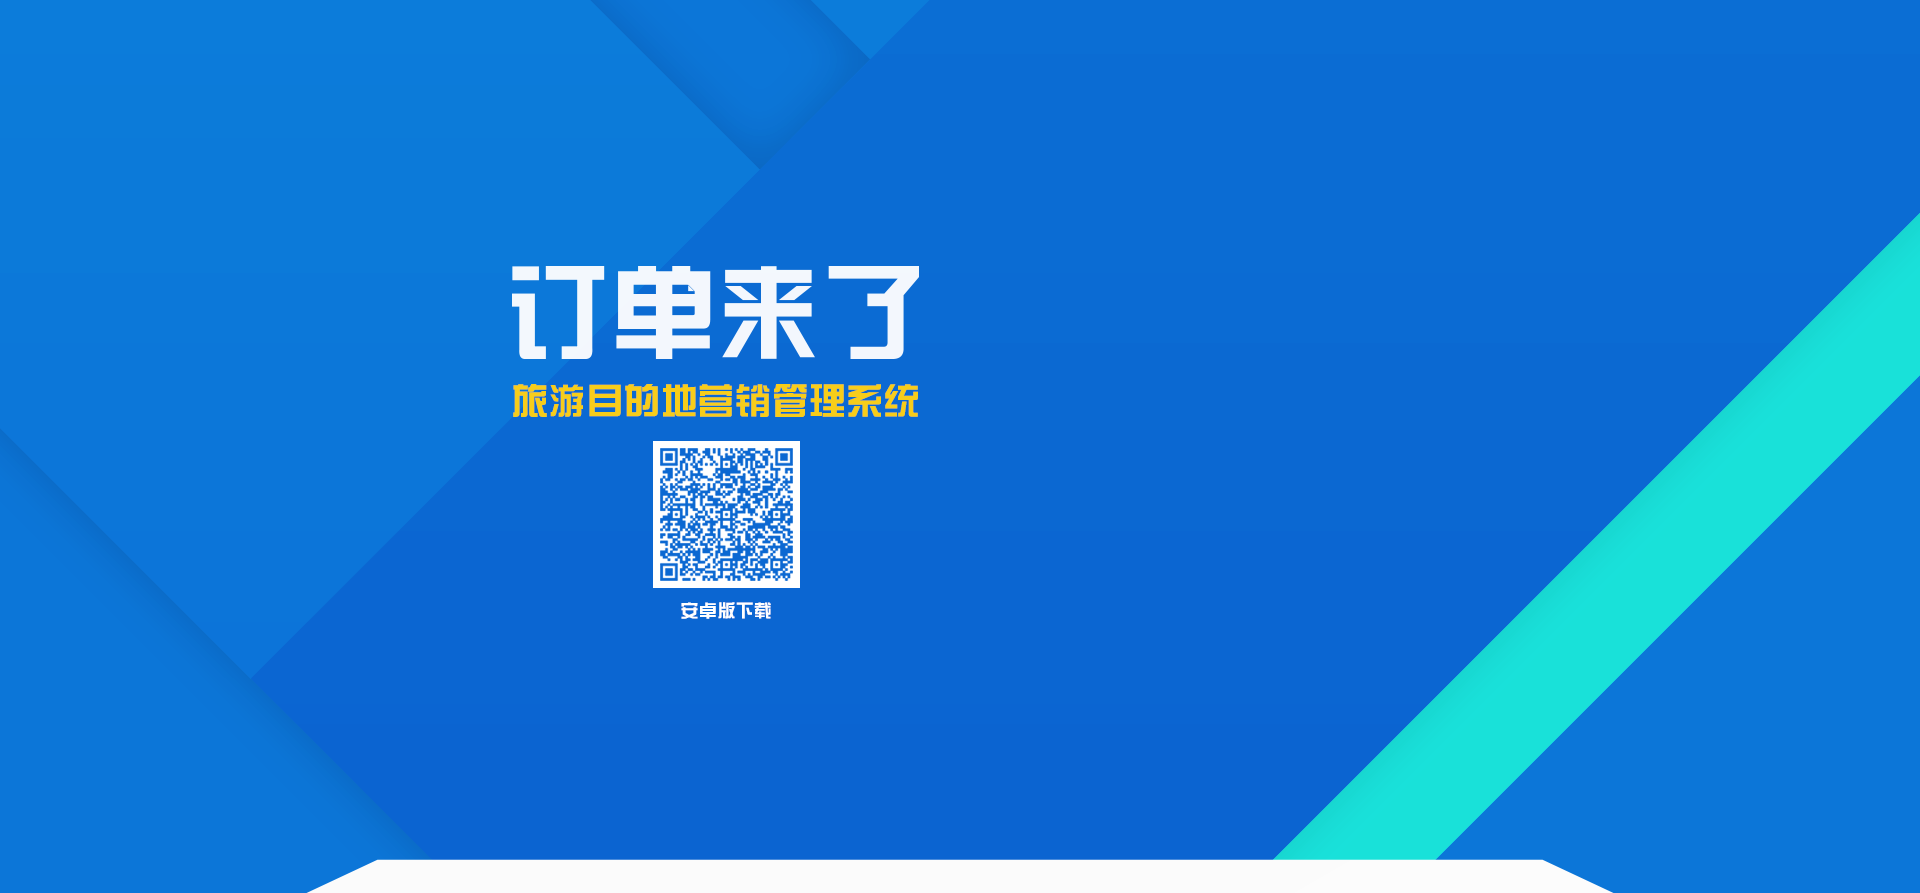
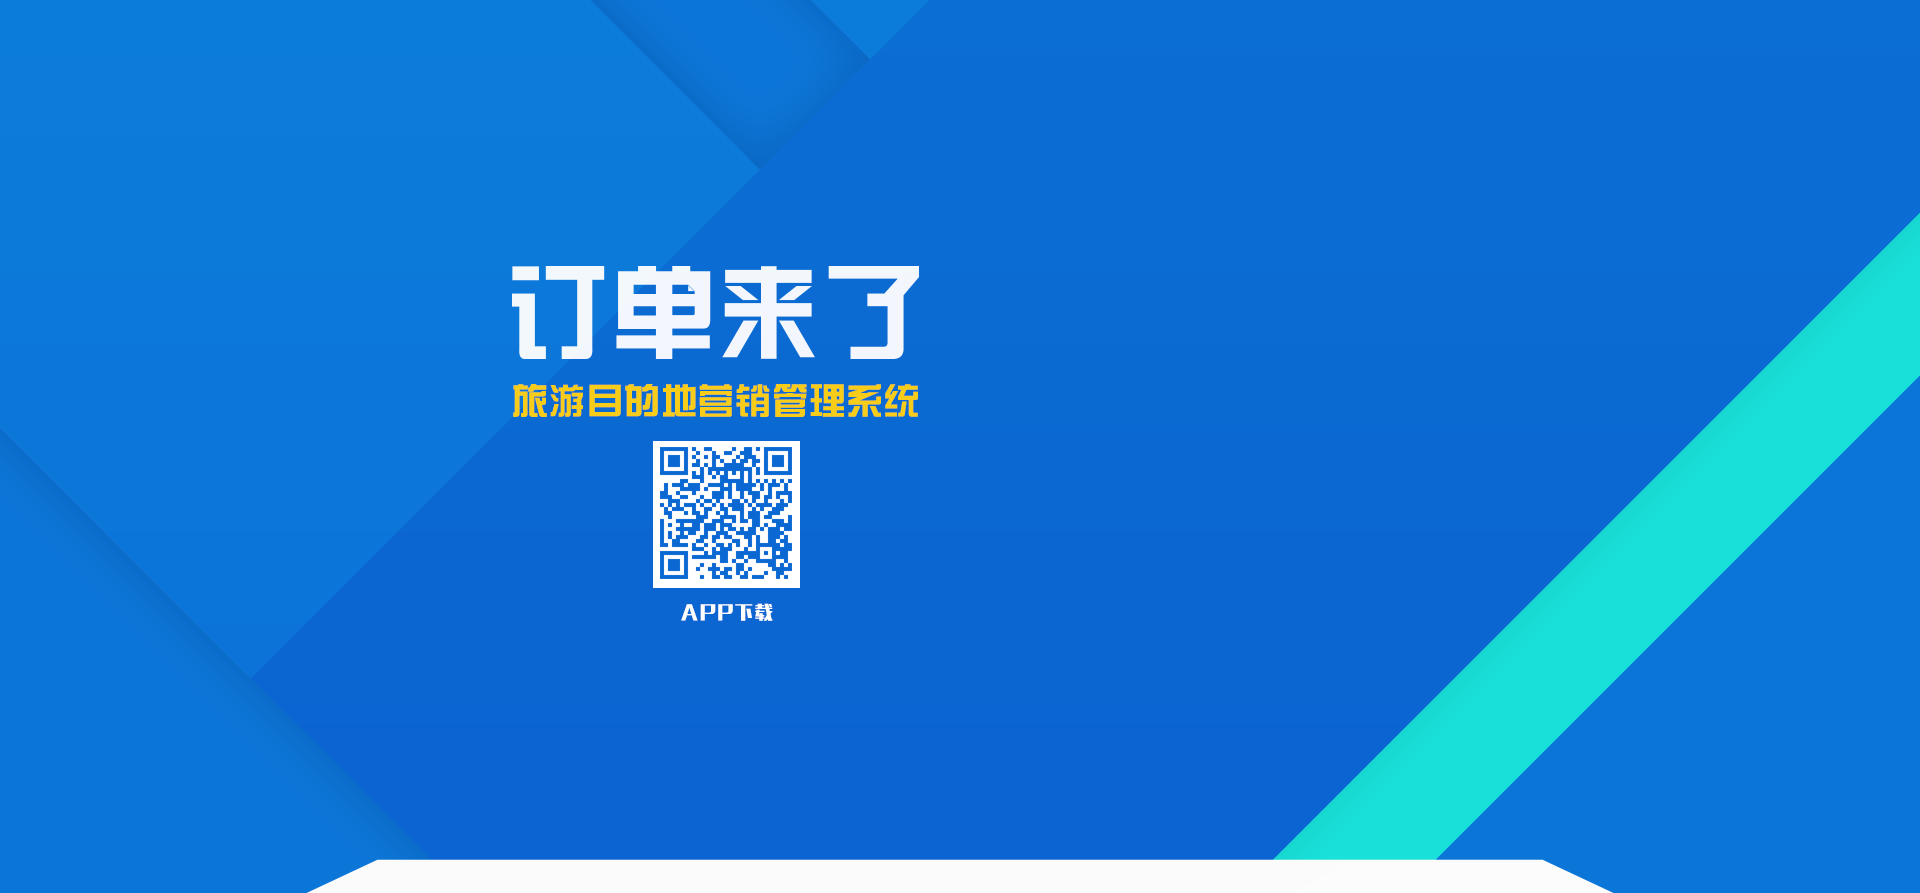
更换二维码图片

Changed region(s): [[0.3438, 0.4838, 0.4375, 0.6954]]

diff --git a/static/js/app/src/common/AJAXService.js b/static/js/app/src/common/AJAXService.js
@@ -6,8 +6,8 @@ var AJAXService = {
         //宪伟服务器 http://192.168.0.2:8082/mg
         //var host = "http://121.41.109.105:8081/mg";
         //浩南服务器 http://192.168.0.118:8087
-        host: "http://121.41.109.105:8081/mg",
-		//host: "/mg",
+        //host: "http://121.41.109.105:8081/mg",
+		host: "/mg",
         //host: "http://120.26.83.168:8081/mg",
         //var host = "/mg";
         loginUrl: "/user/login",

diff --git a/login.html b/login.html
@@ -186,7 +186,7 @@
     </div>
     <div class="item">
         <img src="./static/image/erweima.png" alt=""/>
-        <div class="desc">安卓版APP下载</div>
+        <div class="desc">APP下载</div>
     </div>
 </div>
 <div id="loginFooter">
